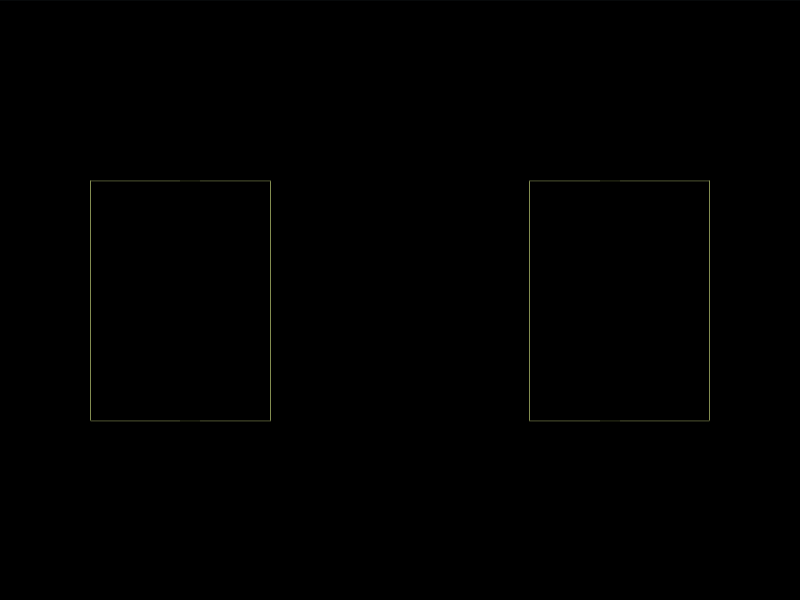
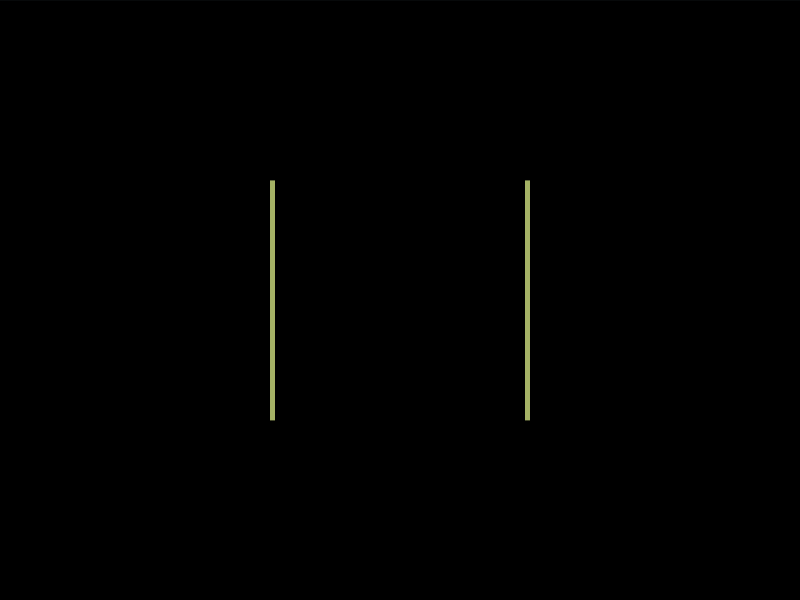
Score: 702.36, Characters: 143 (100.00% match) - CSSHub

diff --git a/Daily Targets/2026-08-09/README.md b/Daily Targets/2026-08-09/README.md
@@ -22,7 +22,7 @@ Challenge: <https://cssbattle.dev/play/QTeWMIkTXmaFuhHHvNZ8>
 ## Code
 
 ```html
-<p><style>&,&>*{border:11q solid#9D92C8}*{background:#594C94;margin:50-10;*{margin:-10 90;*{height:120;margin:0 55;box-shadow:-116q 32q#FFF,116q 32q#FFF
+<p><style>&,&>*{border:11q solid#9d92c8;background:#594c94;margin:50-10}&>*{margin:-10 90;*{margin:30-55;border-inline:5lh solid#FFF;height:120
 ```
 
 ## Prettified code
@@ -33,19 +33,15 @@ Challenge: <https://cssbattle.dev/play/QTeWMIkTXmaFuhHHvNZ8>
 &,
 & > * {
   border: 11Q solid #9d92c8;
-}
-* {
   background: #594c94;
   margin: 50 -10;
+}
+& > * {
+  margin: -10 90;
   * {
-    margin: -10 90;
-    * {
-      height: 120;
-      margin: 0 55;
-      box-shadow:
-        -116Q 32Q #fff,
-        116Q 32Q #fff;
-    }
+    margin: 30 -55;
+    border-inline: 5lh solid #fff;
+    height: 120;
   }
 }
 </style>

diff --git a/README.md b/README.md
@@ -174,7 +174,7 @@ Note - I have not yet complete all the challenges.
 <li><a href="./Daily%20Targets/2026-08-06/">Aug 6, 2026</a> (161 Characters)</li>
 <li><a href="./Daily%20Targets/2026-08-07/">Aug 7, 2026</a> (132 Characters)</li>
 <li><a href="./Daily%20Targets/2026-08-08/">Aug 8, 2026</a> (144 Characters)</li>
-<li><a href="./Daily%20Targets/2026-08-09/">Aug 9, 2026</a> (152 Characters)</li>
+<li><a href="./Daily%20Targets/2026-08-09/">Aug 9, 2026</a> (143 Characters)</li>
 </ul>
 </details>
 </li>
